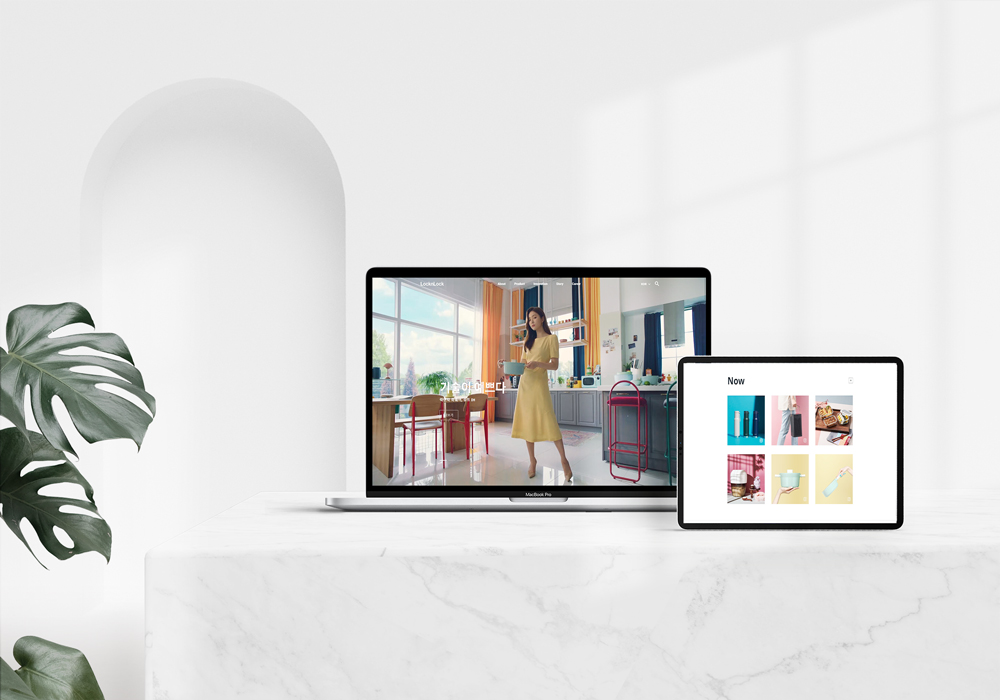
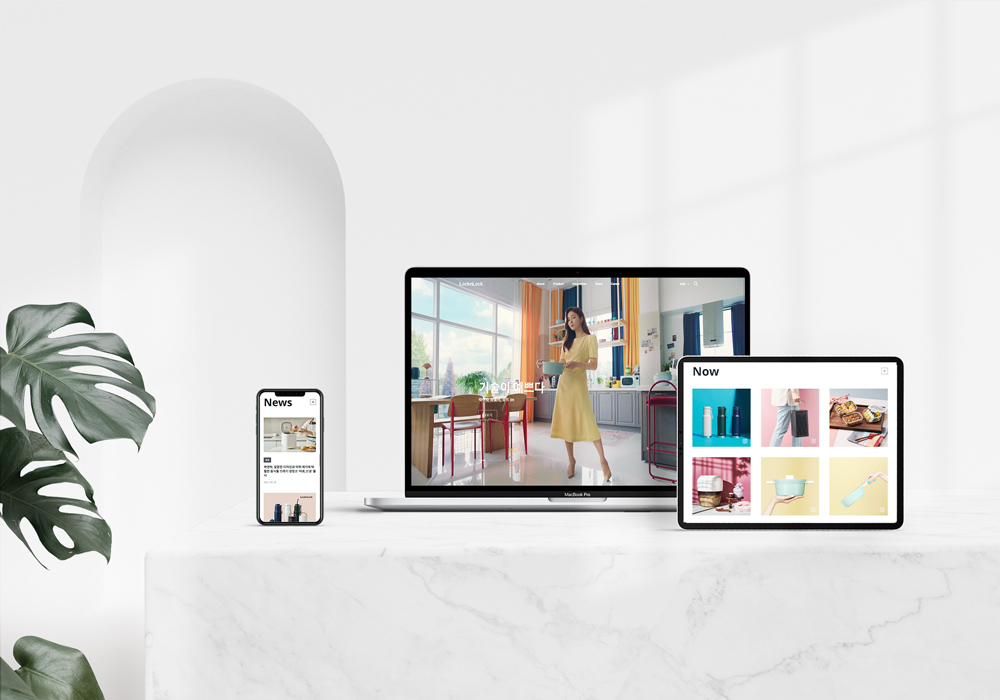
edit index locknlock images

Changed region(s): [[0.248, 0.36, 0.899, 0.75]]

diff --git a/index.html b/index.html
@@ -322,7 +322,7 @@
                 </div>
               </li>
               <!-- // Slide 2 -->
-              <li class="portfolio__box swiper-slide">
+              <!-- <li class="portfolio__box swiper-slide">
                 <div class="portfolio__desc">
                   <h3>Mobile Web</h3>
                   <div class="portfolio__txt">
@@ -346,20 +346,20 @@
                     <div class="btn-square btn-square--white">Read More</div>
                   </a>
                 </div>
-              </li>
+              </li> -->
               <!-- // Slide 3 -->
               <li class="portfolio__box swiper-slide desktop-only">
                 <div class="portfolio__desc">
-                  <h3>Web Site Publishing</h3>
+                  <h3>Responsive Web Site</h3>
                   <div class="portfolio__txt">
                     <p>
-                      <span>Subject</span> 웹표준/웹접근성을 준수한 기업 웹사이트 구현
+                      <span>Subject</span> Flex, Grid를 적용한 반응형 웹사이트 구현
                     </p>
                     <p>
                       <span>Used Skills</span> HTML5 / CSS3 / jQuery & Library
                     </p>
                     <p>
-                      <span>Suitable Device</span> DeskTop 1920 X 1080
+                      <span>Suitable Device</span> DeskTop / Tablet / Mobile
                     </p>
                   </div>
                 </div>
